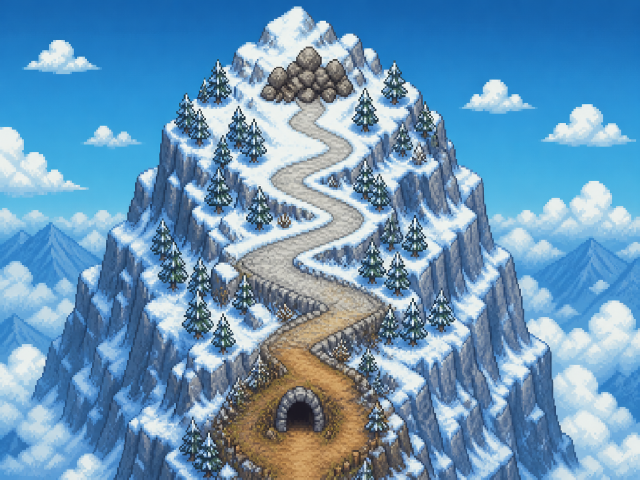
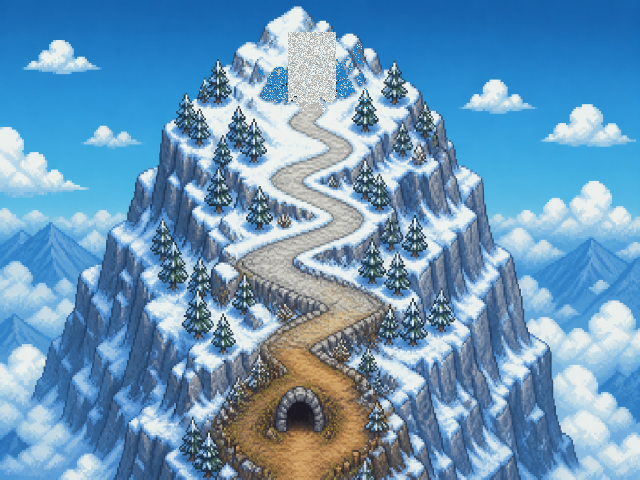
Build 05bt: peak summit rocks really clear after diamond pick.
Painted pile scrubbed from peakMap so only the smashable prop remains.
10 hits remove the prop, open the summit walk, and persist peakRocksCleared.
Never START OVER.

Changed region(s): [[0.4062, 0.0625, 0.5938, 0.2188]]

diff --git a/index.html b/index.html
@@ -115,7 +115,7 @@
 (function () {
   "use strict";
 
-  var BUILD = "20260905bs";
+  var BUILD = "20260905bt";
   var ASSET_REV = "452632";
   var VIEW_W = 320;
   var VIEW_H = 192;
@@ -2576,6 +2576,18 @@
       }
       if (!_hasIslandCave) cached = null;
     }
+    /* 20260905bt: rebuild peak if rocks cleared but cache still has the pile / blocked summit */
+    if (name === "peak" && cached) {
+      var _pk, _hasRocks = false, _summitOpen = false;
+      if (cached.props) {
+        for (_pk = 0; _pk < cached.props.length; _pk++) {
+          if (cached.props[_pk] && cached.props[_pk].kind === "peakRocks") { _hasRocks = true; break; }
+        }
+      }
+      if (cached.ground && cached.ground[4] && cached.ground[4][19] === "f") _summitOpen = true;
+      if (found.peakRocksCleared && (_hasRocks || !_summitOpen)) cached = null;
+      if (!found.peakRocksCleared && !_hasRocks) cached = null;
+    }
     /* 20260905bp: rebuild island cave if exit still uses pink wooden door */
     if (name === "islandCave" && cached && cached.props) {
       var _hasCaveExit = false, _ice;
@@ -3012,7 +3024,37 @@
       }
       g[y] = row;
     }
+    /* 20260905bt: after diamond pick clears the pile, open the summit walk */
+    if (found.peakRocksCleared) applyPeakSummitOpen(g);
     return g;
+  }
+
+  function applyPeakSummitOpen(g) {
+    var cells, i, tx, ty, row;
+    if (!g) return;
+    /* Continue the painted dirt through the old rock choke (cols 18-20, rows 2-5). */
+    cells = [
+      [18, 5], [19, 5], [20, 5],
+      [18, 4], [19, 4], [20, 4],
+      [18, 3], [19, 3], [20, 3],
+      [18, 2], [19, 2], [20, 2]
+    ];
+    for (i = 0; i < cells.length; i++) {
+      tx = cells[i][0];
+      ty = cells[i][1];
+      if (ty < 0 || ty >= g.length) continue;
+      row = g[ty];
+      if (!row || tx < 0 || tx >= row.length) continue;
+      row[tx] = "f";
+    }
+  }
+
+  function openPeakSummitPathLive() {
+    applyPeakSummitOpen(GROUND);
+    if (sceneCache && sceneCache.peak && sceneCache.peak.ground) {
+      applyPeakSummitOpen(sceneCache.peak.ground);
+    }
+    buildSolid();
   }
 
   function buildPeakProps() {
@@ -7279,9 +7321,15 @@
       var pri = PROPS.indexOf(prop);
       if (pri >= 0) PROPS.splice(pri, 1);
       found.peakRocksCleared = true;
-      buildSolid();
+      /* Drop any cached peak props that still hold the pile. */
+      if (sceneCache && sceneCache.peak) {
+        sceneCache.peak.props = PROPS;
+        sceneCache.peak.ground = GROUND;
+      }
+      openPeakSummitPathLive();
       delete harvestNodes[nodeKey(liveHarvestScene(), prop.tx, prop.ty)];
       showLineNote("PATH CLEAR!");
+      spawnSparks(prop.tx * TILE + 8, prop.ty * TILE + 4);
       persistSave();
       return;
     } else if (prop.kind === "rock") {
@@ -19692,7 +19740,7 @@ if (currentScene === "ocean") goExitOcean();
       else { fail++; log.push("FAIL " + name + (detail ? " — " + detail : "")); }
     }
     try {
-      ok("BUILD", BUILD === "20260905bs", BUILD);
+      ok("BUILD", BUILD === "20260905bt", BUILD);
       ok("deathCopy", true); /* drawFaint msg patched; visual */
       /* Enter mine floor 1 with a fresh slime beside the player. */
       monsterCache[1] = null;

diff --git a/BACKLOG.md b/BACKLOG.md
@@ -1,3 +1,4 @@
+Local 9/5 (BUILD 20260905bt): peak summit rocks really clear — painted pile scrubbed from peakMap so only the smashable prop remains; diamond pick 10-hit finish removes prop, opens walk cols 18–20 rows 2–5, persists peakRocksCleared, busts stale peak cache. Prior 05bs big-tree ladder kept. Never START OVER.
 Local 9/5 (BUILD 20260905bs): big-tree climb ladder denser + bigger — Imagine ladder re-BOX to 48×72 (loose pink chroma scrub), atlas pack ASSET_REV=452632; TREE draws at 32×48 (not tiny half-scale); mine/others keep half-scale 24×36; fatter TREE tap target. Never START OVER.
 Local 9/5 (BUILD 20260905br): gentle overworld slugs — farm-edge + woods (slime art); day 1 / evening–night up to 3 on farm, 2 in forest; 2hp / 1♥ bump / longer idle / home radius 3; sword-kill drops pebble/mushroom/coin; mine combat untouched. Never START OVER.
 Local 9/5 (BUILD 20260905bq): day/time clock race harden — dedicated clockMark (not shared gameplay dt), 50ms step cap, at-most-one day rollover per tick, reset baseline on UI-pause / visibility / pageshow so tab-sleep cannot dump into dayMs, single-flight rAF scheduleLoop, deferred phase-change persistSave; HUD tint samples frameDayT. DAY_MS frozen (480000). ASSET_REV unchanged. Never START OVER.
@@ -81,7 +82,7 @@ Pick from the top. Expand the world creatively (bigger beach/ocean, fun Imagine 
 | Medium | Local 9/5 05bh | Dog runs around inside the house | Shorter idle + faster house steps + multi-tile room wander when home; leash outdoor rules from 04k unchanged. **Needs live verify.** |
 | Medium | Done 9/5 1:30am live | Boat at pier | LIVE 9/5 ~1:12–1:30am BUILD 20260905a: GET IN / row / TOO DEEP on deep water / get out on shore PASS; leave-ocean while aboard blocked (GET OUT FIRST.). |
 | Medium | Done 9/5 05ac–05ad | Bigger beach / ocean world | Extend ocean scene logically + creatively with fun Imagine graphics (cove, dunes, more pier room, south deep water toward island). Make the world feel bigger. |
-| Medium | Done 9/5 05af | Island cave Diamond Pickaxe → peak rocks | Row boat further south into deep ocean → tiny island with cave → Diamond Pickaxe inside. Imagine-regen PEAK without painted summit rocks; place matching removable rock sprites; Diamond Pickaxe breaks them in 10 hits. Opens summit path. |
+| Medium | Local 9/5 05bt (live TBD) | Island cave Diamond Pickaxe → peak rocks | LOCAL 9/5 BUILD 20260905bt: painted summit pile scrubbed from peakMap; smashable prop only; 10 diamond-pick hits remove prop + open walk (cols 18–20 rows 2–5) + persist peakRocksCleared + bust stale peak cache. Was Done 9/5 05af claim (regen PEAK / removable sprites) but live paint stayed after smash. Never START OVER. |
 | Medium | Local 9/5 | More Imagine trees everywhere | Local 9/5 BUILD 20260905bi: farm rim + town edges + ocean cove palms + forest fillers using existing Imagine pine/oak/birch/palm; scatter typed; WOODS/MINE/OCEAN/house/crops paths clear. Needs live. Was Partial 9/5 (05z farm kind-swap only). Extra tree types via Grok Imagine + BOX/AREA downsample; props not painted-in. |
 | Low | Done 9/5 05y | Pip shop glow-up | Still queued from earlier (Imagine enhance shopHouse). |
 
